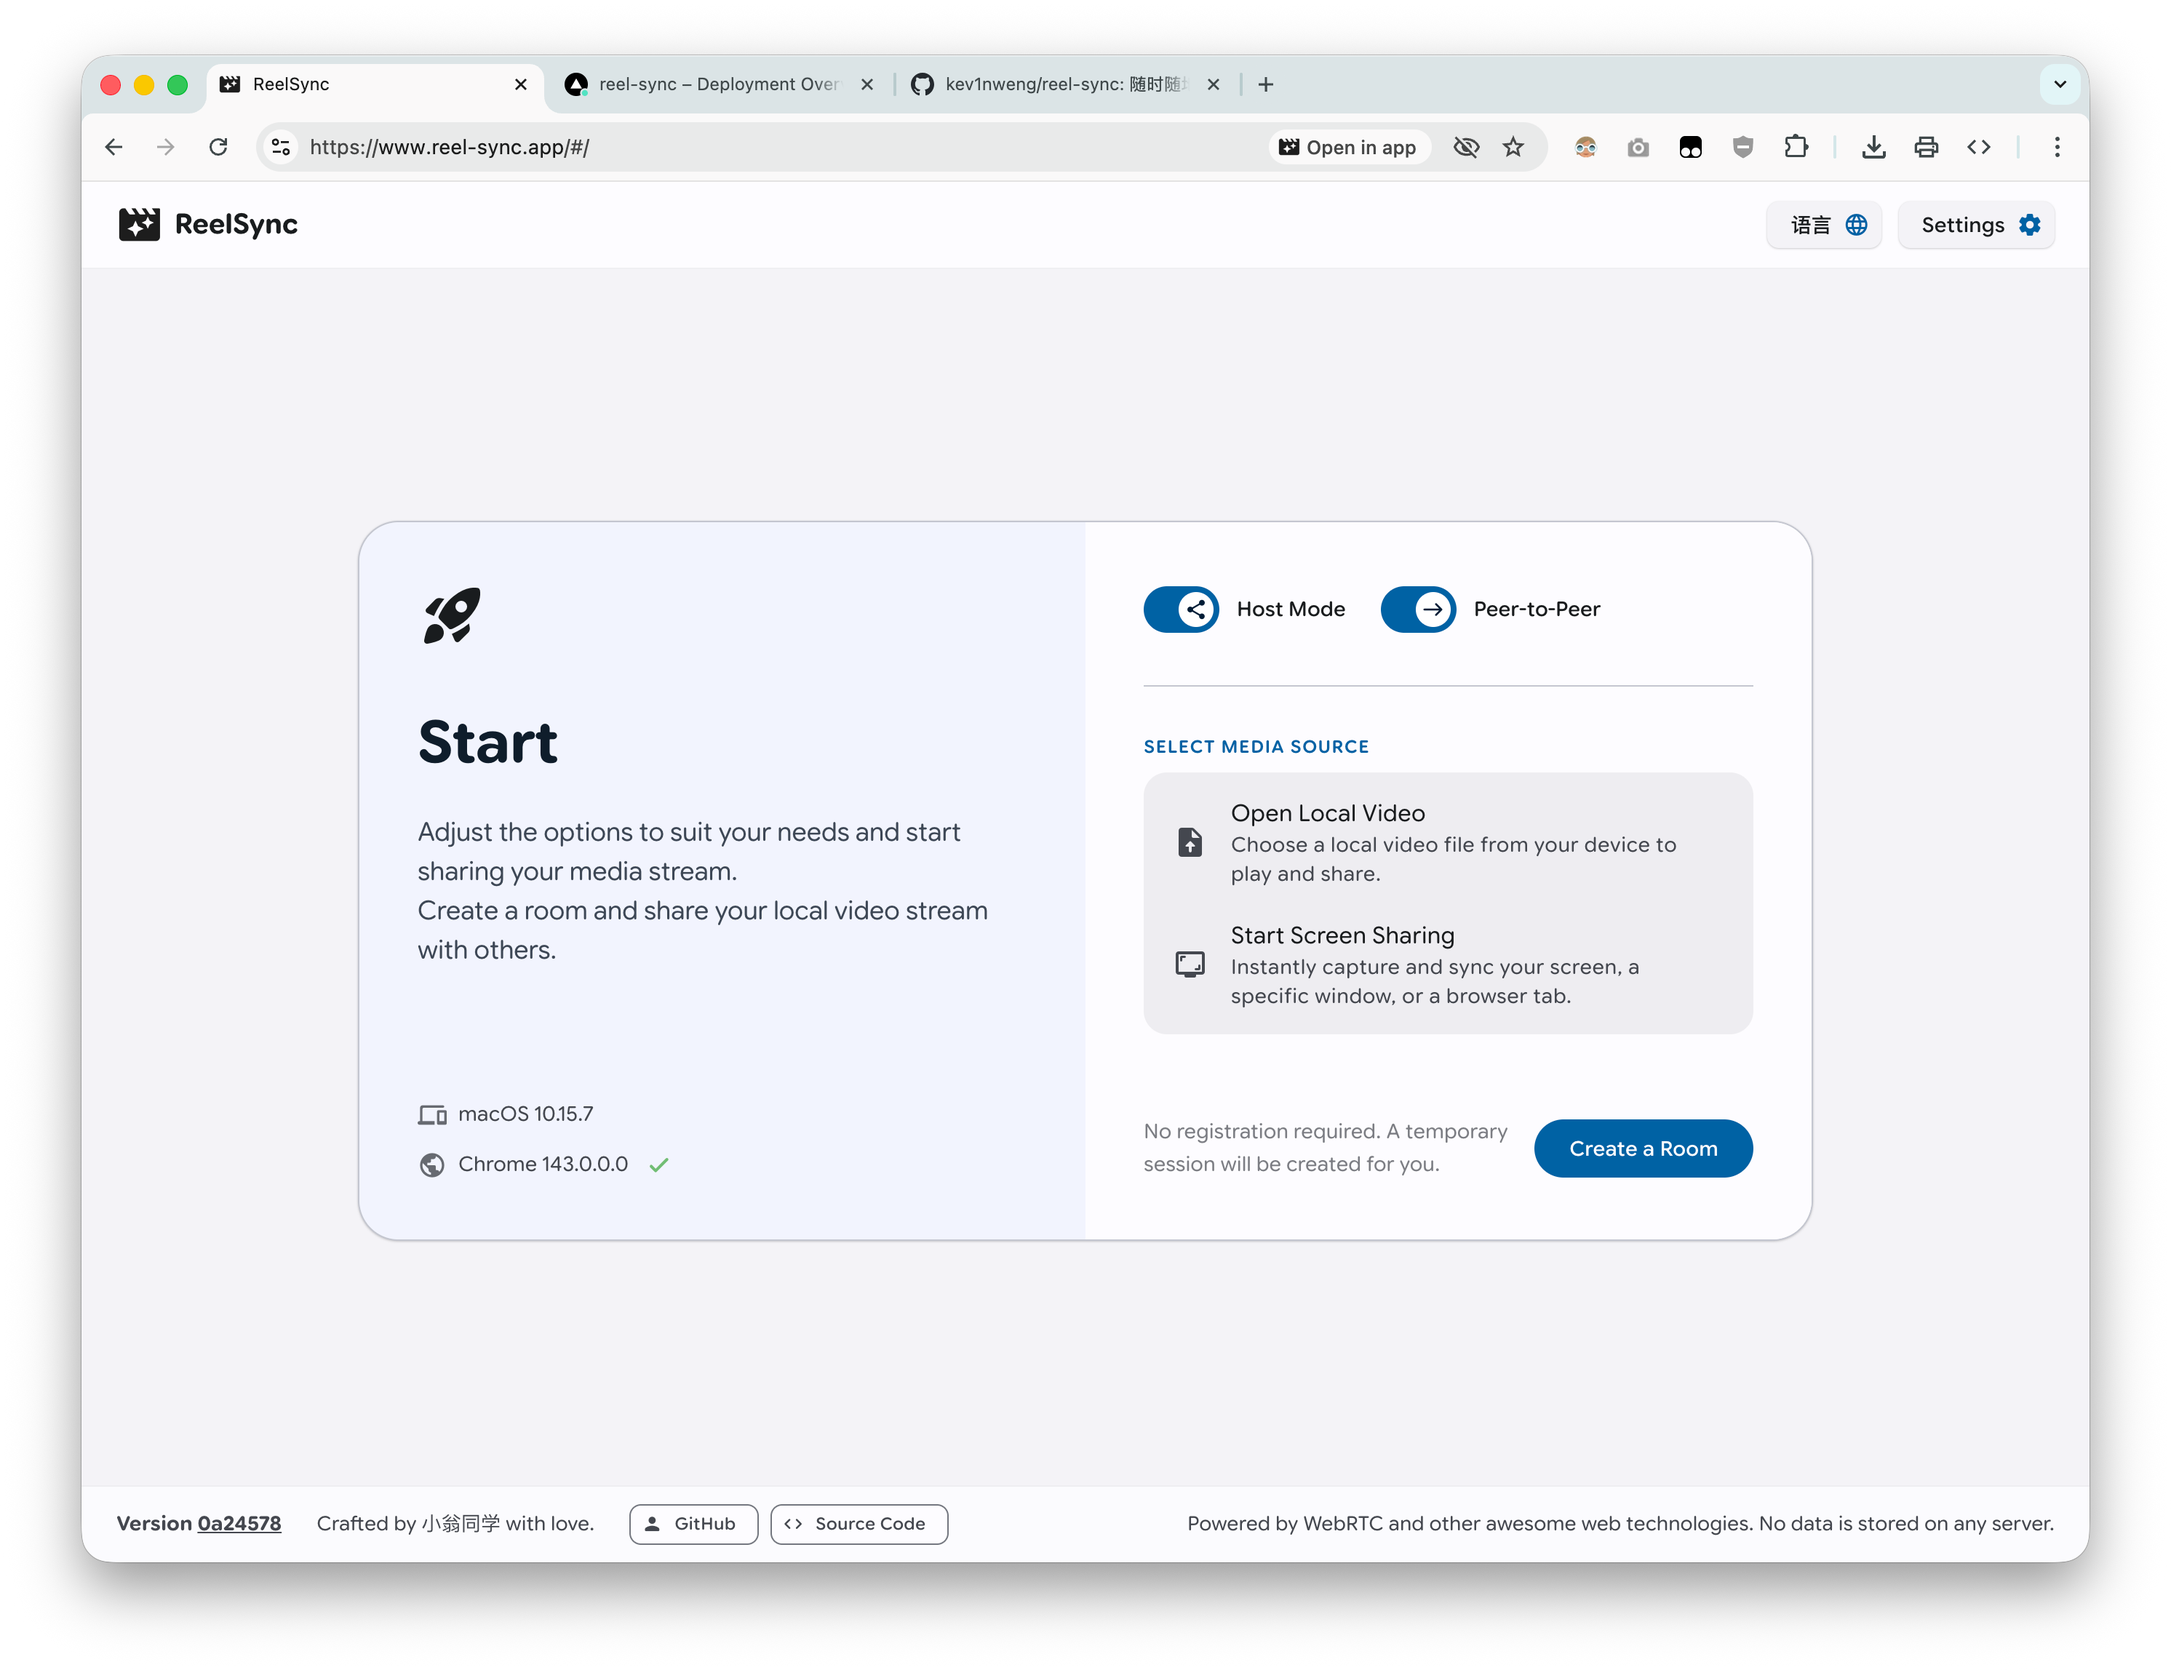
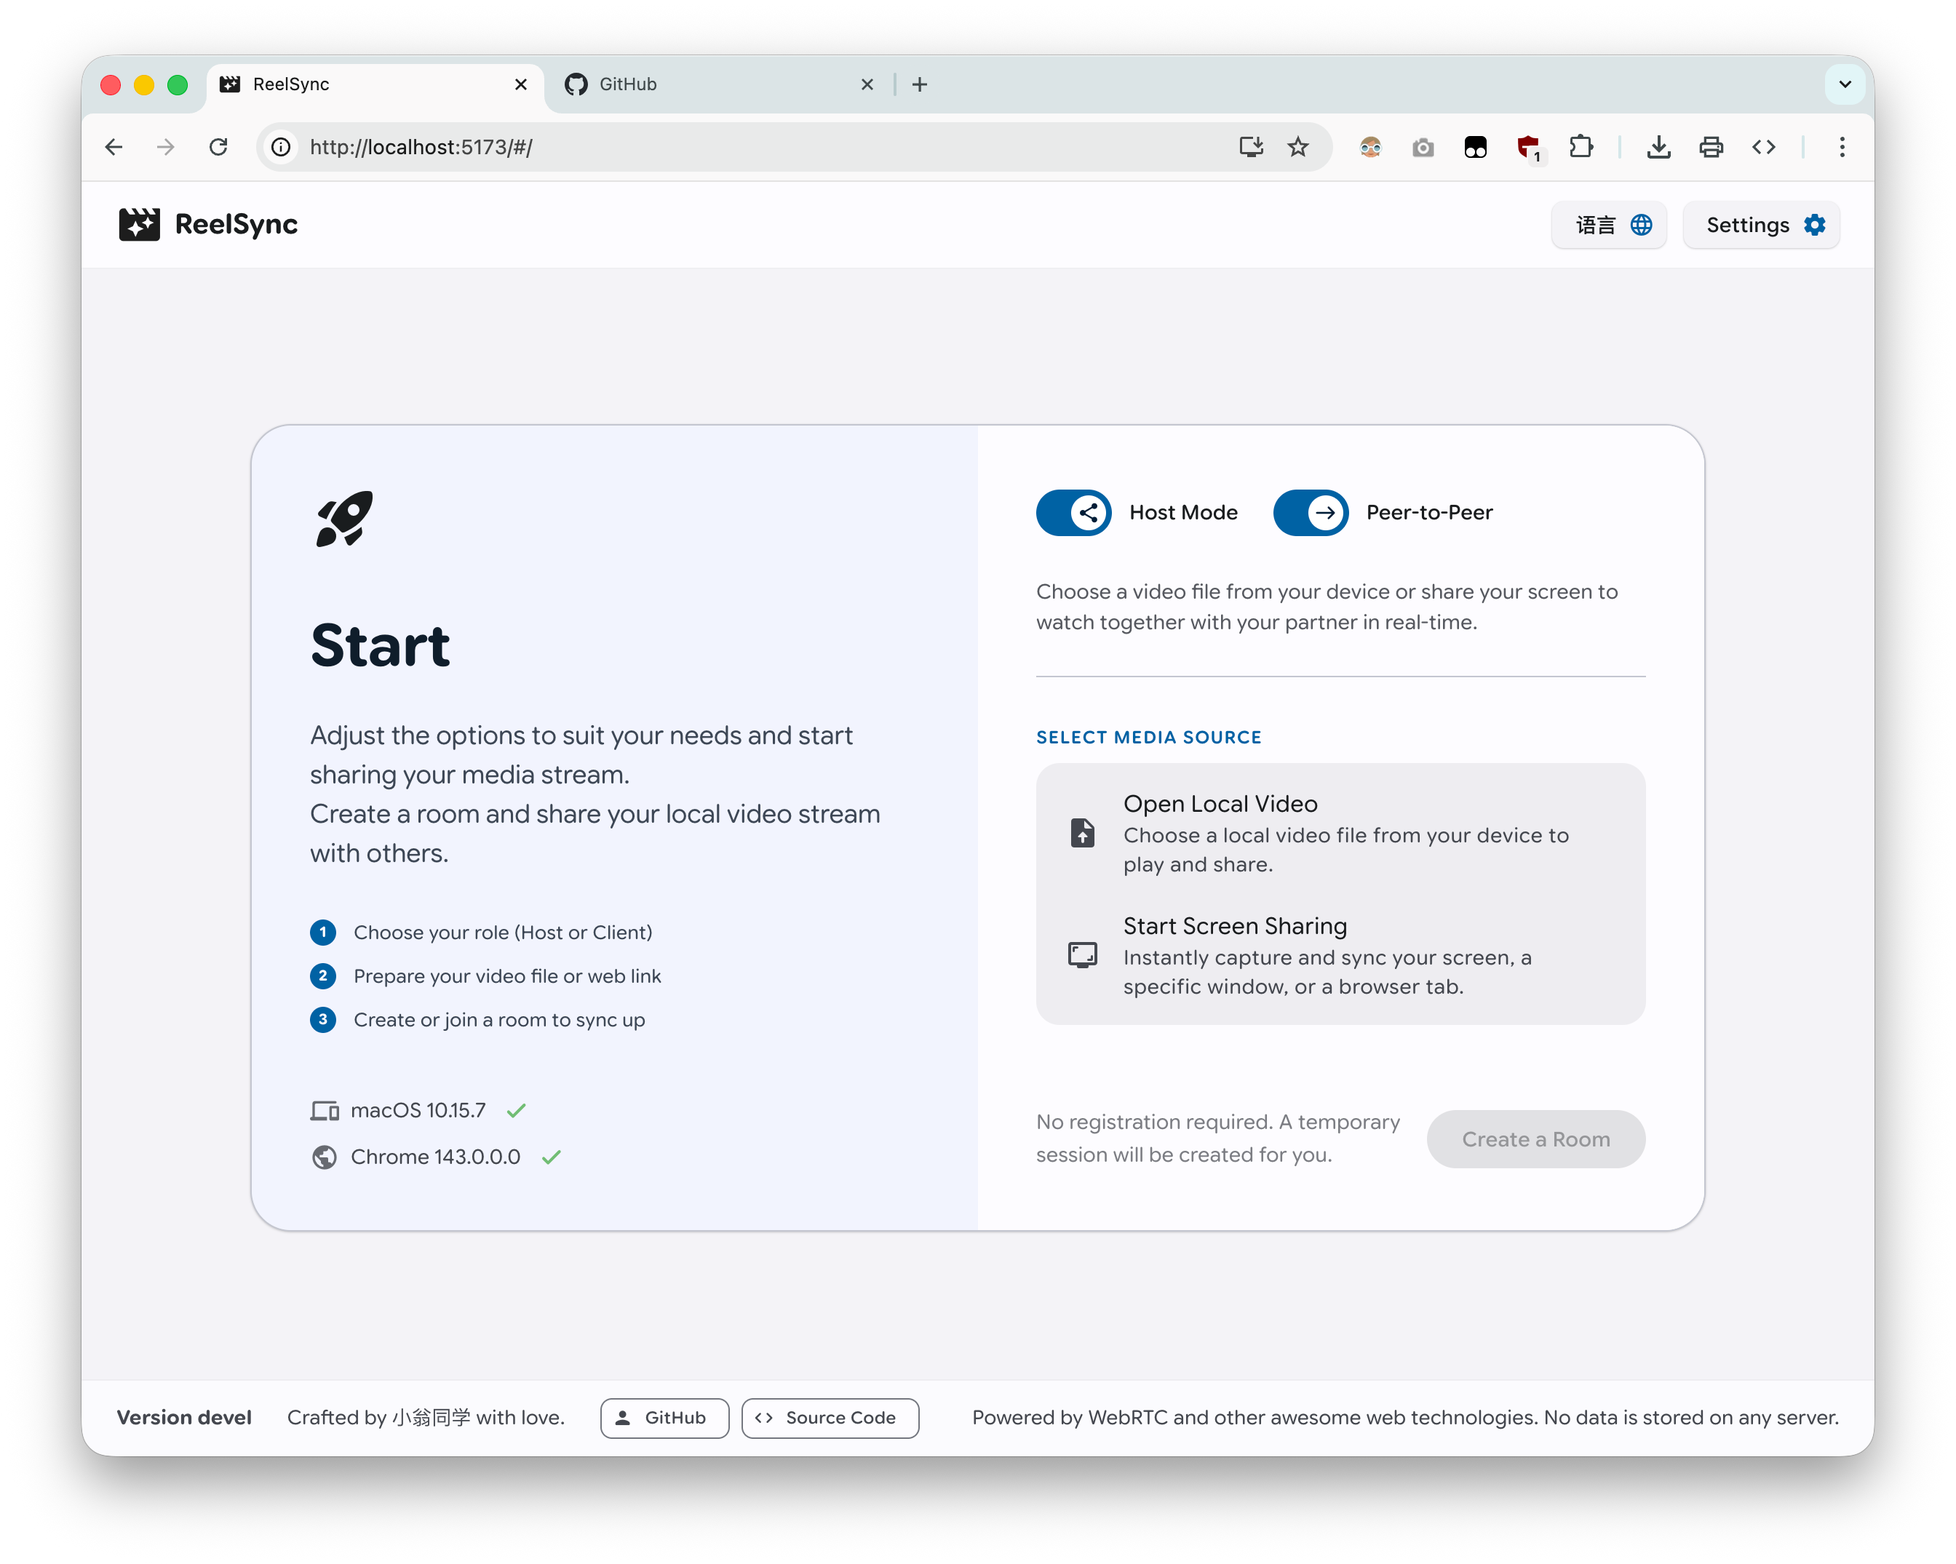
feat(App): 更好的引导

diff --git a/src/views/StartView.vue b/src/views/StartView.vue
@@ -28,6 +28,21 @@ import Bowser from "bowser";
             {{ modeDescription }}
           </p>
 
+          <div class="quick-guide">
+            <div class="guide-item">
+              <div class="guide-number">1</div>
+              <div class="guide-text">{{ $t("StartView.guide.step1") }}</div>
+            </div>
+            <div class="guide-item">
+              <div class="guide-number">2</div>
+              <div class="guide-text">{{ $t("StartView.guide.step2") }}</div>
+            </div>
+            <div class="guide-item">
+              <div class="guide-number">3</div>
+              <div class="guide-text">{{ $t("StartView.guide.step3") }}</div>
+            </div>
+          </div>
+
           <div class="env-info">
             <div
               class="env-item"
@@ -99,6 +114,10 @@ import Bowser from "bowser";
             </div>
           </div>
 
+          <p class="mode-combined-description">
+            {{ combinedDescription }}
+          </p>
+
           <mdui-divider class="section-divider"></mdui-divider>
 
           <!-- Host Mode Inputs -->
@@ -112,6 +131,7 @@ import Bowser from "bowser";
                   icon="upload_file--rounded"
                   @click="uploadVideo"
                   v-if="!isScreenStreamReady"
+                  :active="isVideoReady"
                   :description="$t('StartView.buttons.uploadVideoDescription')"
                 >
                   {{ $t("StartView.buttons.uploadVideo") }}
@@ -249,6 +269,14 @@ export default {
         if (!isSupported) return 0;
         if (name === "Safari" || name === "Firefox") return 1;
         return 2;
+      },
+      get combinedDescription() {
+        if (this.mode === 1) {
+          return shared.app.i18n.t("StartView.modes.combinedDescription.client");
+        }
+        return this.method === 0
+          ? shared.app.i18n.t("StartView.modes.combinedDescription.hostP2P")
+          : shared.app.i18n.t("StartView.modes.combinedDescription.hostSameOrigin");
       },
     };
   },
@@ -609,7 +637,7 @@ export default {
 .login-card {
   width: 100%;
   max-width: 1000px;
-  min-height: 480px;
+  min-height: 540px;
   border-radius: 28px;
   overflow: hidden;
   background-color: rgb(var(--mdui-color-surface));
@@ -621,7 +649,7 @@ export default {
   display: flex;
   flex-direction: row;
   height: 100%;
-  min-height: 480px;
+  min-height: 540px;
 }
 
 .brand-section {
@@ -651,6 +679,40 @@ export default {
   opacity: 0.8;
   line-height: 1.5;
   margin: 0;
+}
+
+.quick-guide {
+  margin-top: 2rem;
+  display: flex;
+  flex-direction: column;
+  gap: 0.75rem;
+}
+
+.guide-item {
+  display: flex;
+  align-items: center;
+  gap: 0.75rem;
+}
+
+.guide-number {
+  width: 18px;
+  height: 18px;
+  background-color: rgb(var(--mdui-color-primary));
+  color: rgb(var(--mdui-color-on-primary));
+  border-radius: 50%;
+  display: flex;
+  align-items: center;
+  justify-content: center;
+  font-size: 0.625rem;
+  font-weight: bold;
+  flex-shrink: 0;
+}
+
+.guide-text {
+  font-size: 0.8125rem;
+  color: rgb(var(--mdui-color-on-secondary-container));
+  opacity: 0.8;
+  line-height: normal;
 }
 
 .env-info {
@@ -711,6 +773,15 @@ export default {
   font-size: 0.875rem;
   color: rgb(var(--mdui-color-on-surface));
   font-weight: 500;
+}
+
+.mode-combined-description {
+  font-size: 0.875rem;
+  color: rgb(var(--mdui-color-on-surface-variant));
+  line-height: 1.5;
+  margin: -0.5rem 0 1.5rem 0;
+  opacity: 0.9;
+  min-height: 2.75rem;
 }
 
 .section-divider {
